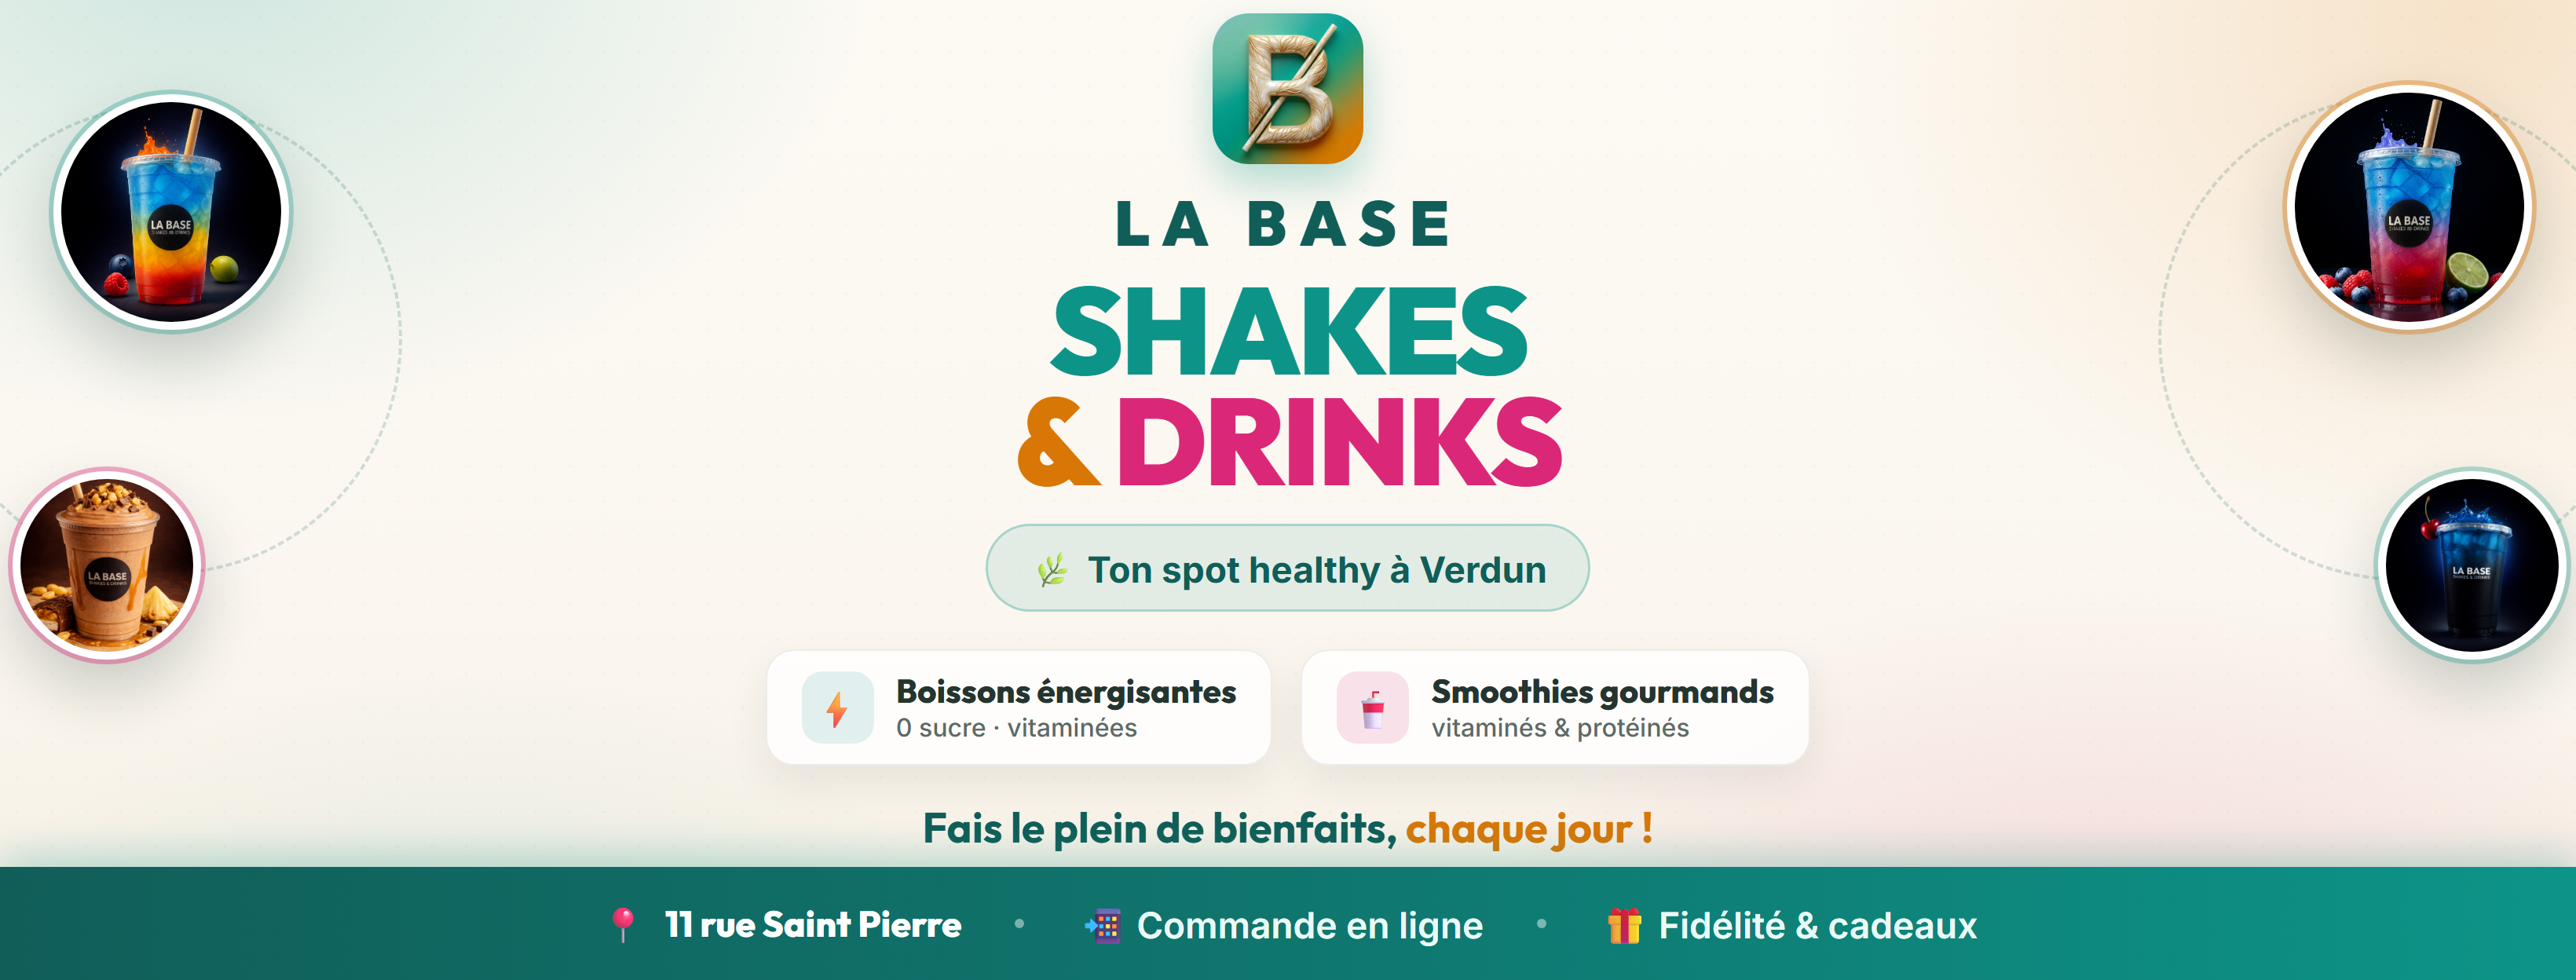
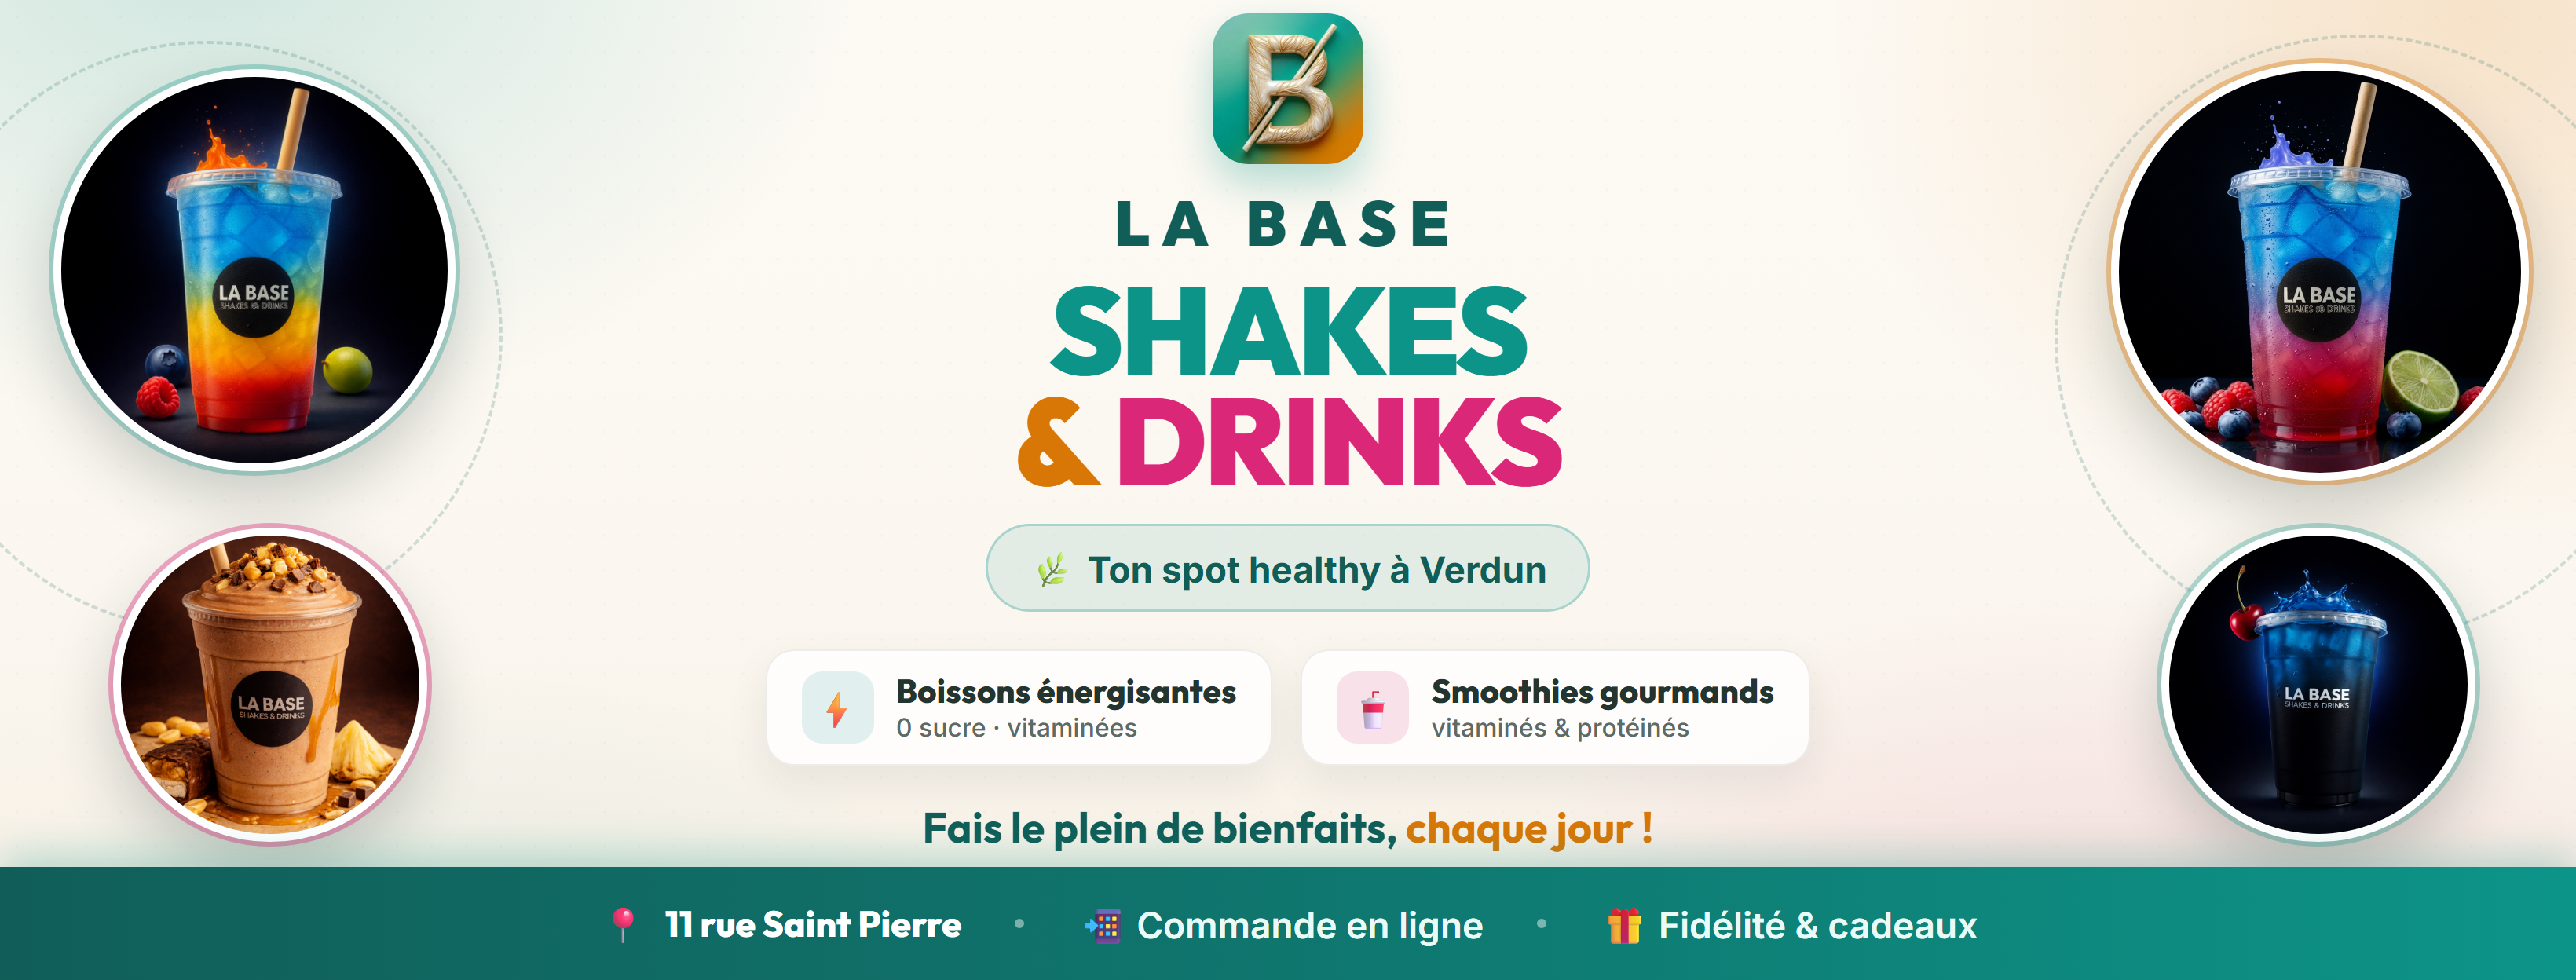
Bannière FB : médaillons produits agrandis (plus visibles)

Changed region(s): [[0.8085, 0.0312, 1.0, 0.875], [0.0, 0.0625, 0.1866, 0.875]]

diff --git a/public/fb-banner-labase.html b/public/fb-banner-labase.html
@@ -85,14 +85,14 @@
     <!-- DÉCOR : vraies photos produits + anneaux pointillés + fruits -->
     <div class="decor">
       <!-- gauche -->
-      <div class="ring" style="left:-44px; top:66px; width:300px; height:300px;"></div>
-      <div class="med" style="left:34px; top:60px; width:150px; height:150px;"><img src="images/drinks/electric-blue.png" alt=""></div>
-      <div class="med rasp" style="left:8px; top:300px; width:120px; height:120px;"><img src="images/shake/snikers.png" alt=""></div>
+      <div class="ring" style="left:-56px; top:26px; width:376px; height:376px;"></div>
+      <div class="med" style="left:34px; top:44px; width:256px; height:256px;"><img src="images/drinks/electric-blue.png" alt=""></div>
+      <div class="med rasp" style="left:72px; top:336px; width:200px; height:200px;"><img src="images/shake/snikers.png" alt=""></div>
 
       <!-- droite -->
-      <div class="ring" style="right:-44px; top:60px; width:310px; height:310px;"></div>
-      <div class="med amber" style="right:28px; top:54px; width:156px; height:156px;"><img src="images/drinks/aurora.png" alt=""></div>
-      <div class="med" style="right:6px; top:300px; width:120px; height:120px;"><img src="images/drinks/black-panther.png" alt=""></div>
+      <div class="ring" style="right:-56px; top:22px; width:388px; height:388px;"></div>
+      <div class="med amber" style="right:30px; top:40px; width:266px; height:266px;"><img src="images/drinks/aurora.png" alt=""></div>
+      <div class="med" style="right:64px; top:336px; width:200px; height:200px;"><img src="images/drinks/black-panther.png" alt=""></div>
     </div>
 
     <!-- ZONE CENTRALE -->